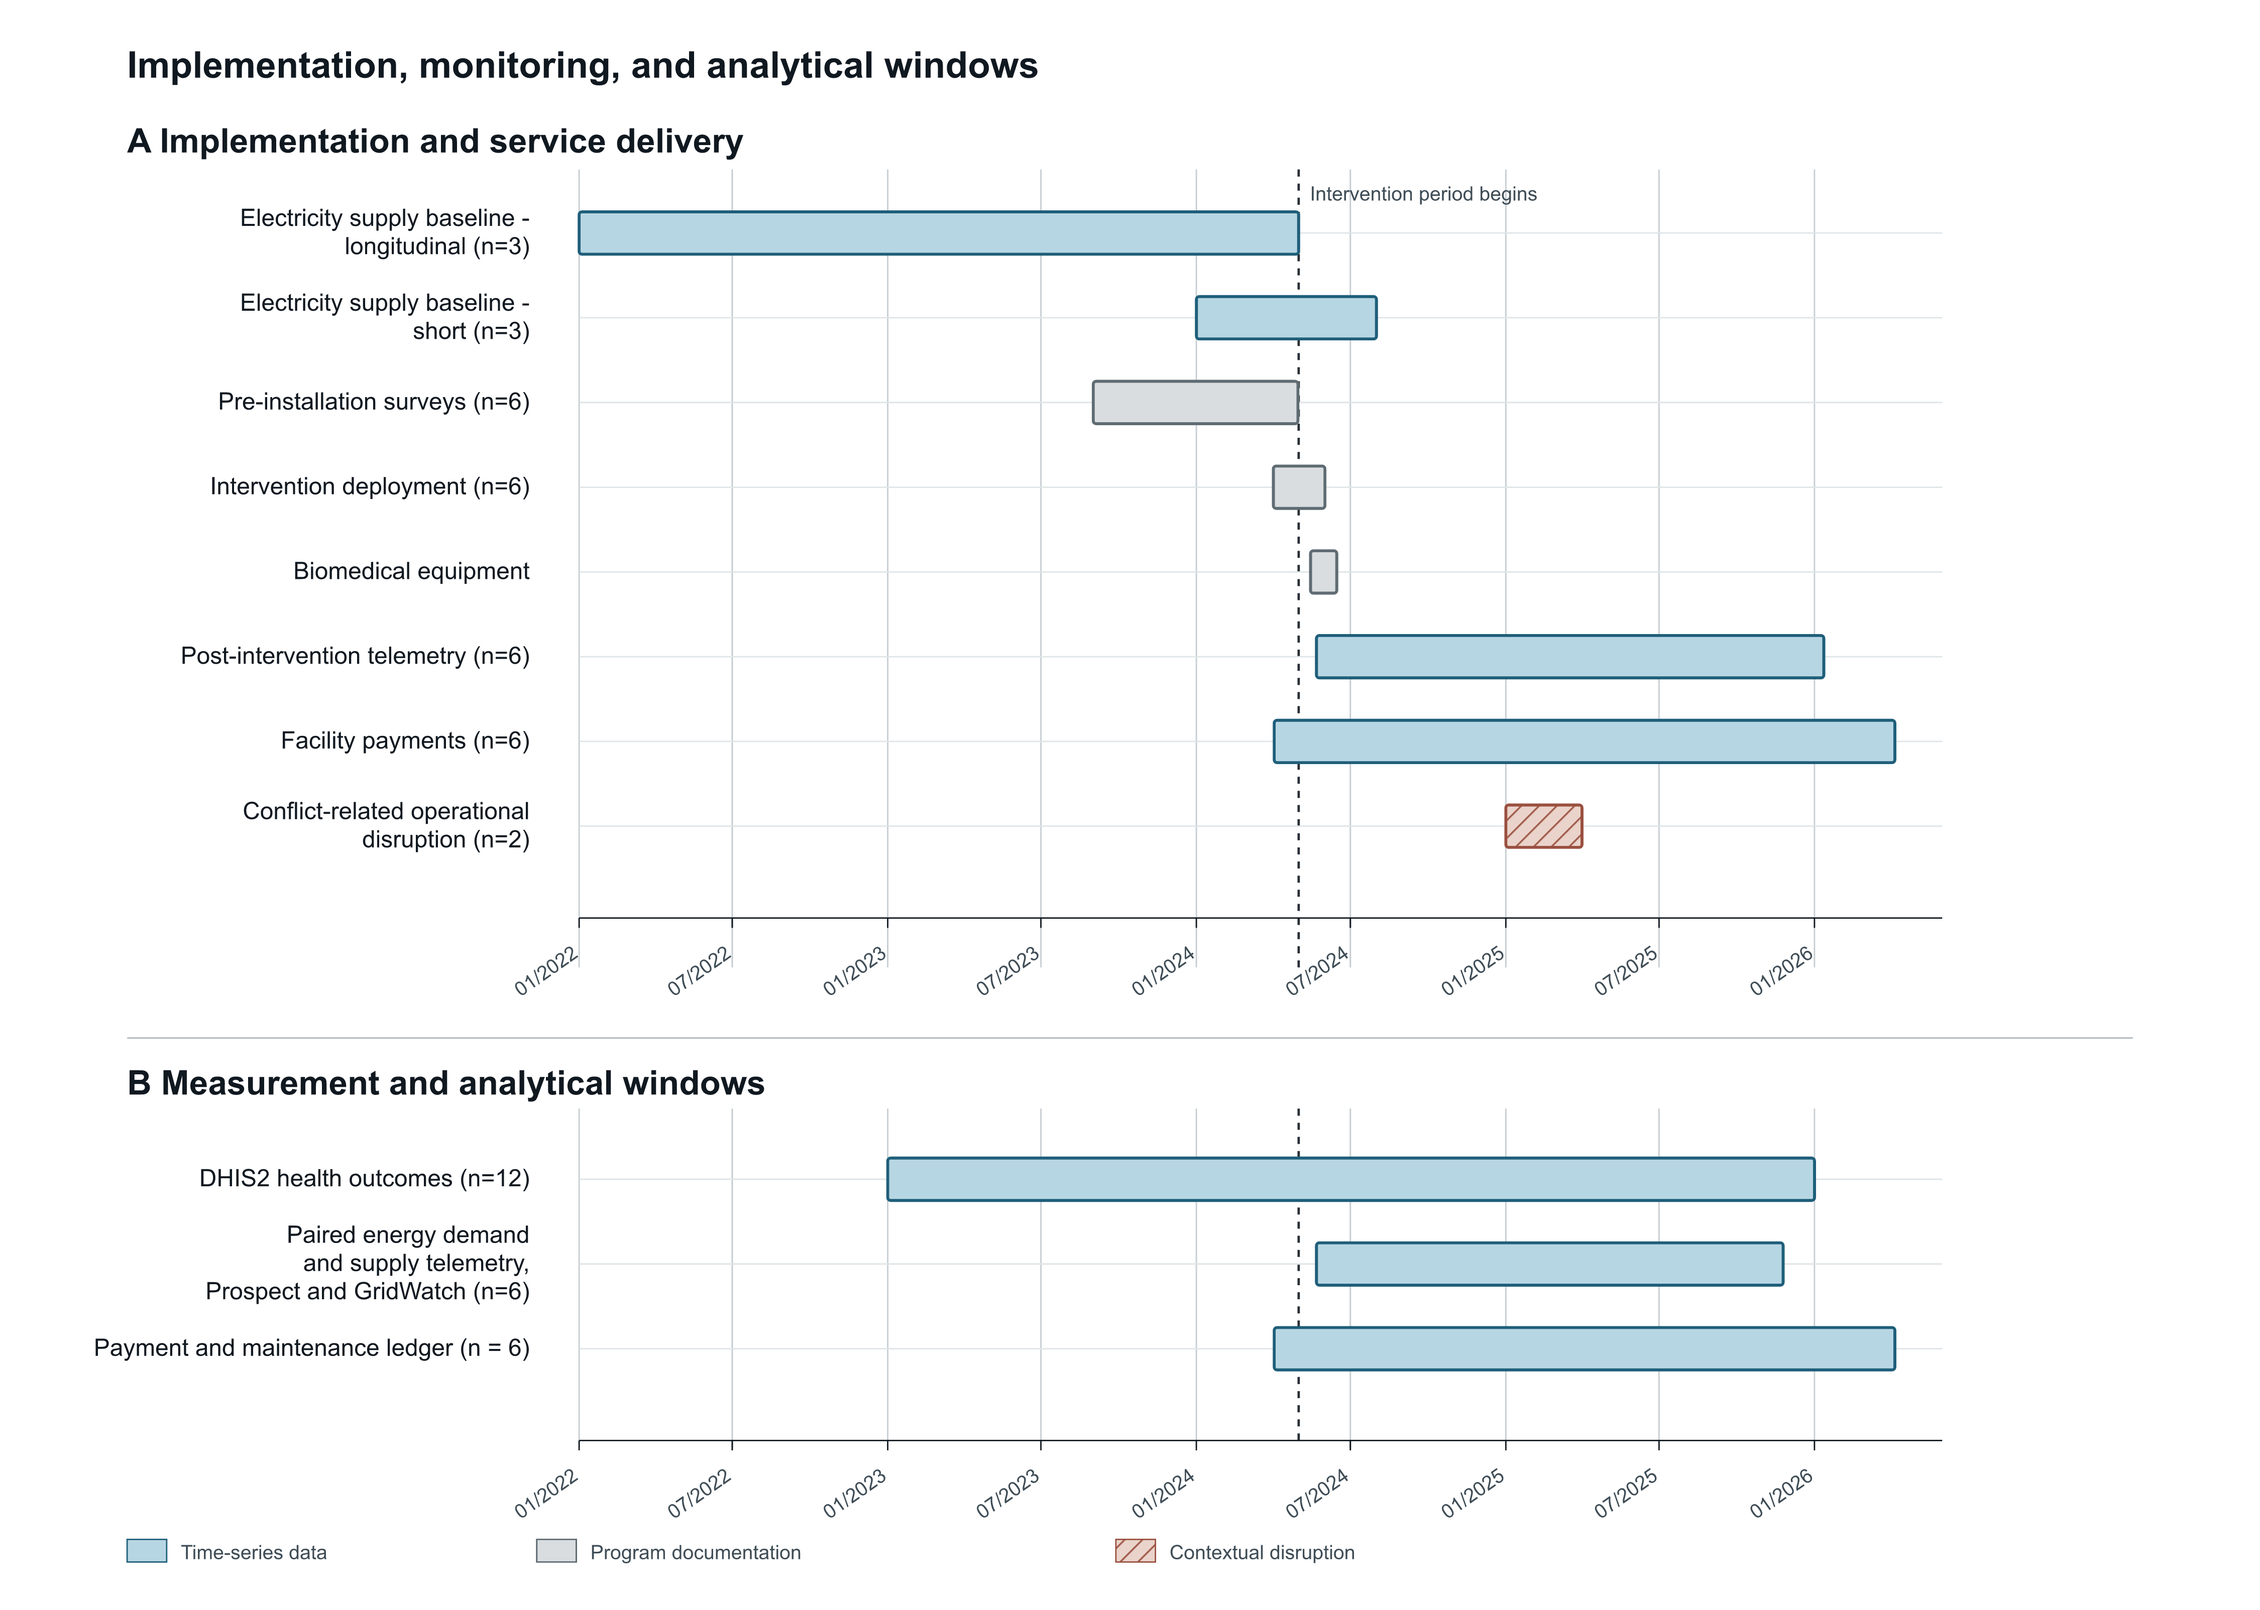
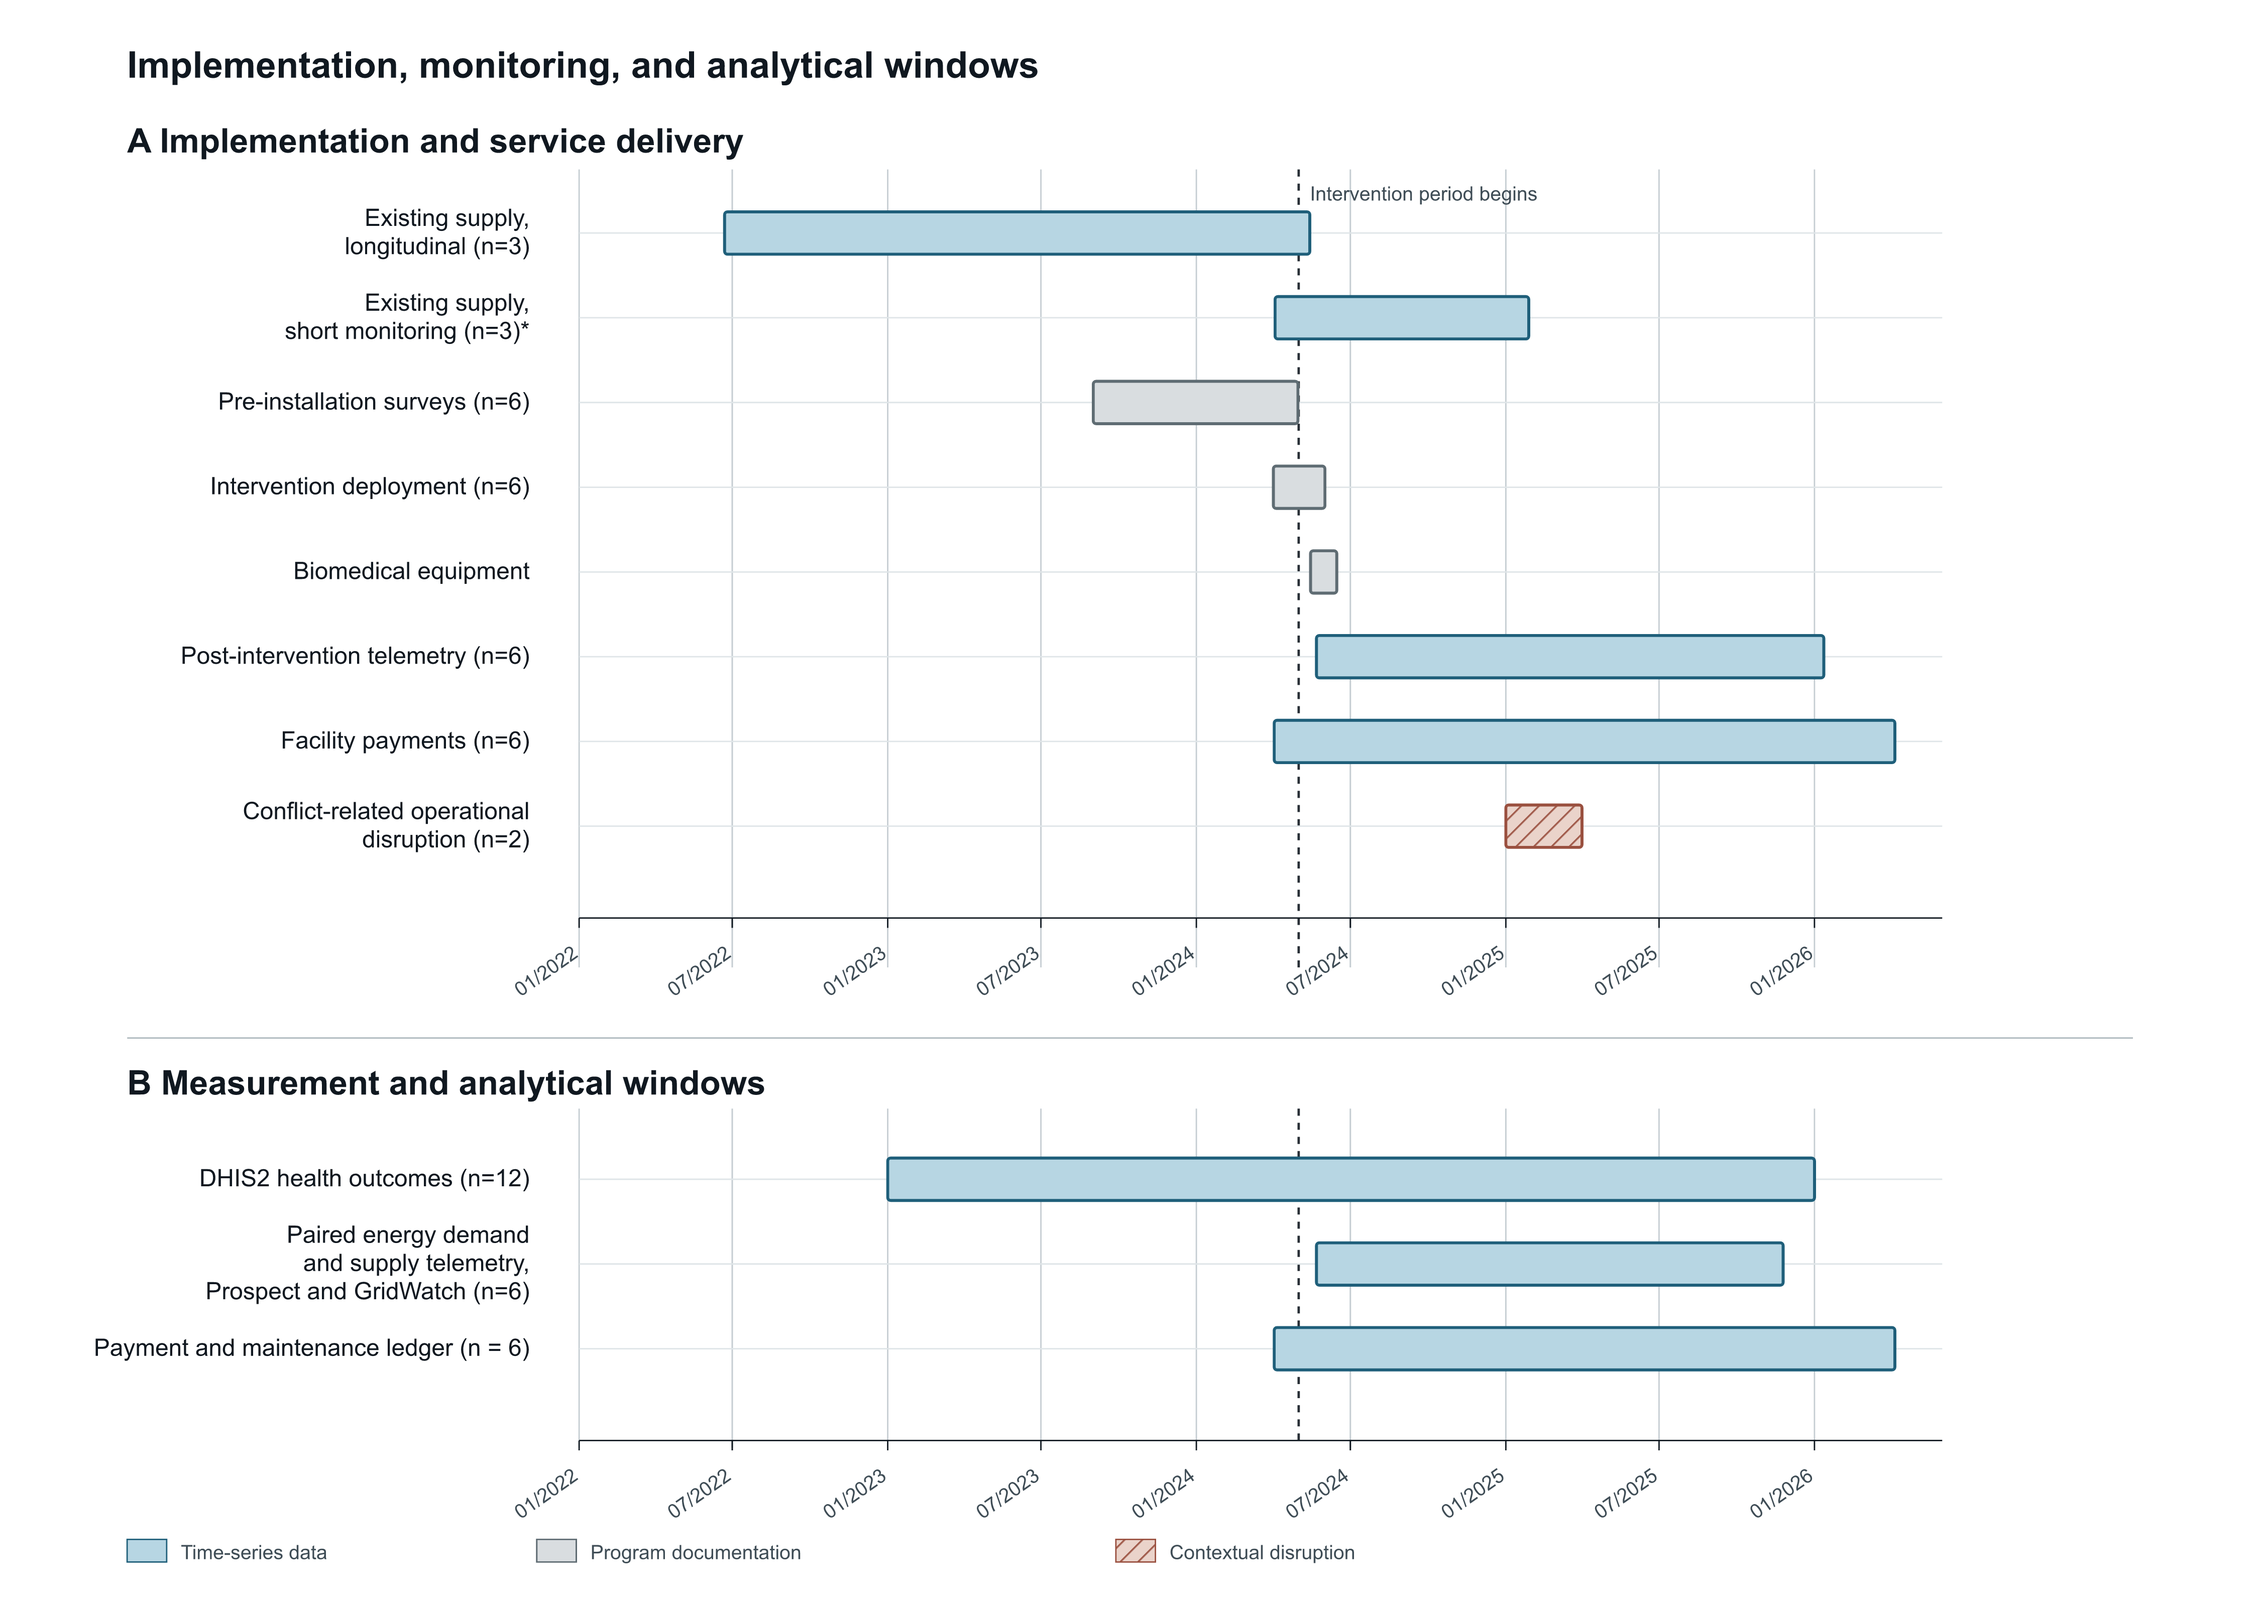
Align Figure 2 grouped telemetry spans with selected comparison windows

diff --git a/scripts/run_timeline_figure.py b/scripts/run_timeline_figure.py
@@ -65,8 +65,8 @@ for panel_top, panel_bottom in [(120, 685), (785, 1025)]:
 
 parts += ['<text x="90" y="108" class="panel">A  Implementation and service delivery</text>']
 rows_a = [
-    (165,"Electricity supply baseline -\nlongitudinal (n=3)","n=3","≈29 mo","2022-01-01","2024-05-01","data"),
-    (225,"Electricity supply baseline -\nshort (n=3)","n=3","25–28 d each","2024-01-01","2024-08-01","data"),
+    (165,"Existing supply,\nlongitudinal (n=3)","n=3","facility-specific","2022-06-22","2024-05-14","data"),
+    (225,"Existing supply,\nshort monitoring (n=3)*","n=3","facility-specific","2024-04-03","2025-01-28","data"),
     (285,"Pre-installation surveys (n=6)","n=6","7-mo window","2023-09-01","2024-04-30","implementation"),
     (345,"Intervention deployment (n=6)","n=6","Apr–May 2024","2024-04-01","2024-06-01","implementation"),
     (405,"Biomedical equipment","n=6","≈1 mo","2024-05-15","2024-06-15","implementation"),

diff --git a/publication/figure2/README.md b/publication/figure2/README.md
@@ -4,7 +4,12 @@
 publication export (7.5 inches wide). The revised labels and MM/YYYY axes were
 approved on 2026-10-14, with `(n = 6)` added to the payment and maintenance ledger.
 The standalone Prospect energy-demand row is removed; paired Prospect and
-GridWatch telemetry remains. All retained bar time boundaries are unchanged.
+GridWatch telemetry remains. The two grouped existing-supply bars now show the selected overall calendar-date
+envelopes: longitudinal (n=3), 2022-06-22–2024-05-14; short monitoring
+(n=3)*, 2024-04-03–2025-01-28. These combine differing facility windows.
+Only the short-monitoring label carries an asterisk; its explanation is left
+for the manuscript caption. All other row definitions are unchanged.
+This alignment was approved on 2026-10-14.
 
 Regenerate the SVG with:
 
